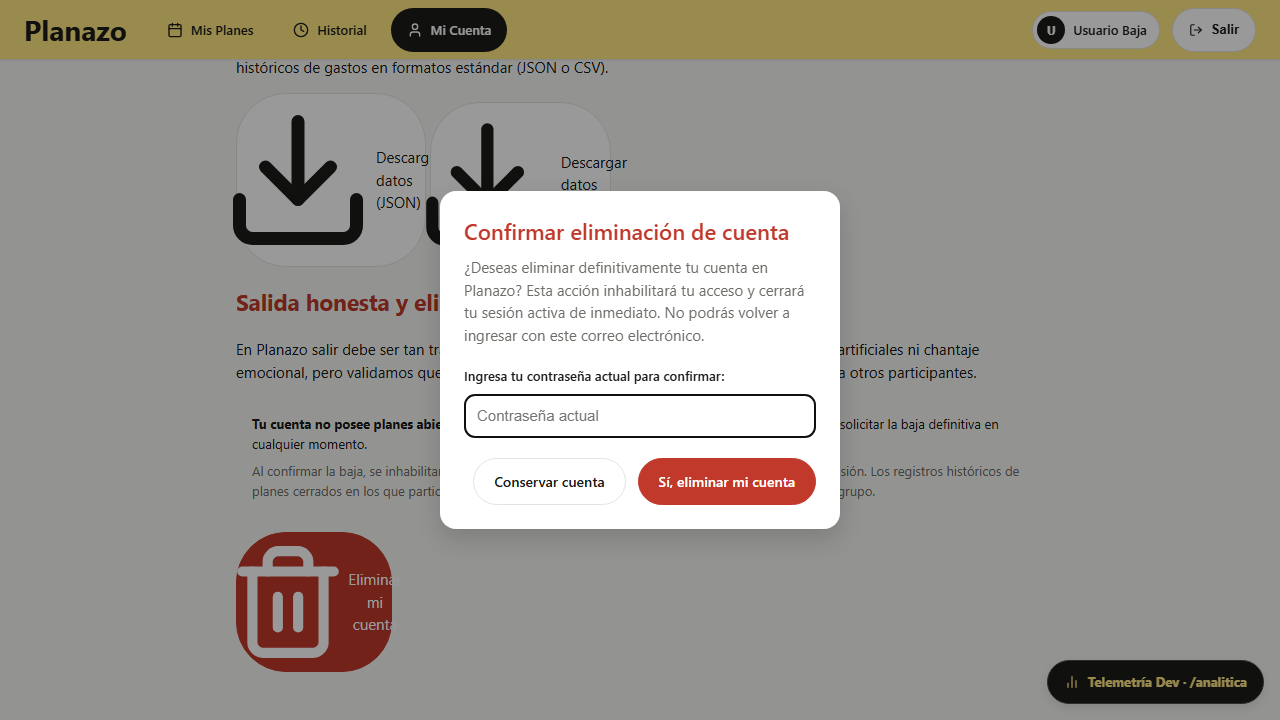
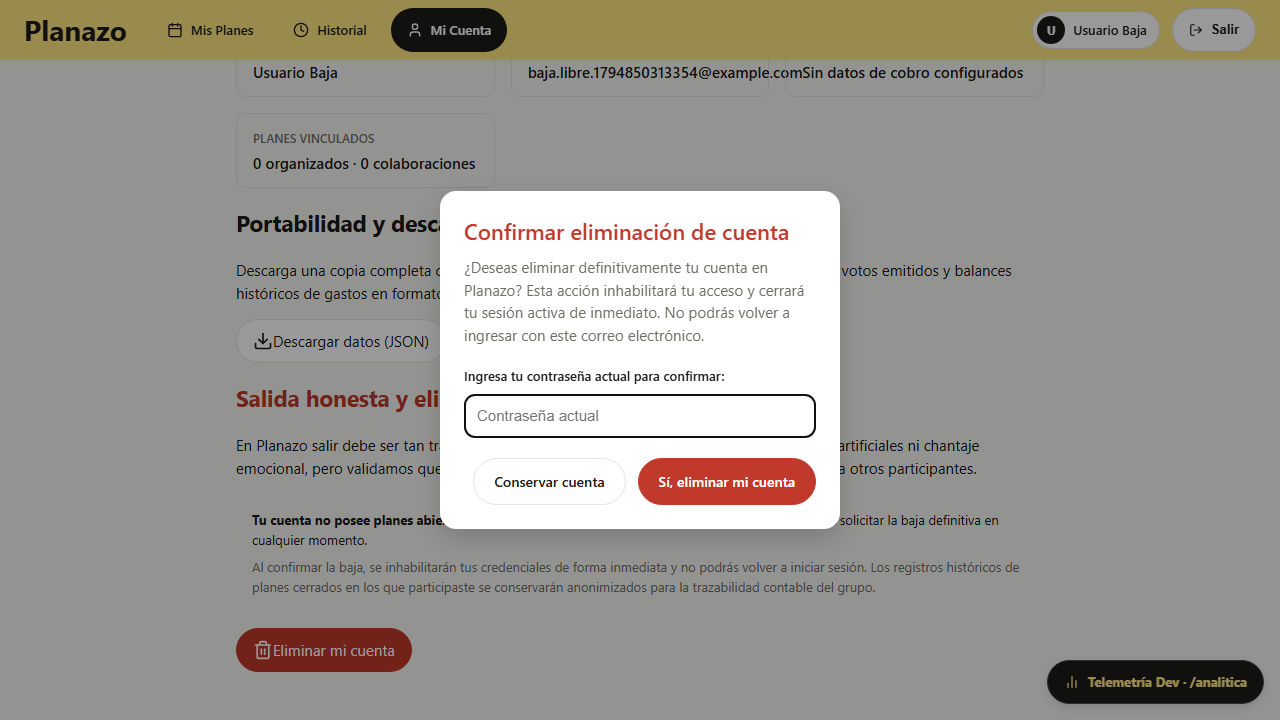
fix(ui): normalizar escalas de iconos vectoriales y remover enlace redundante en navbar (Refs #116)

diff --git a/resources/css/app.css b/resources/css/app.css
@@ -68,6 +68,32 @@ body {
     display: inline-block;
     vertical-align: middle;
     flex-shrink: 0;
+    width: var(--icono-md, 20px);
+    height: var(--icono-md, 20px);
+}
+
+.icono-sm {
+    width: var(--icono-sm, 16px);
+    height: var(--icono-sm, 16px);
+}
+
+.icono-md {
+    width: var(--icono-md, 20px);
+    height: var(--icono-md, 20px);
+}
+
+.icono-lg {
+    width: var(--icono-lg, 24px);
+    height: var(--icono-lg, 24px);
+}
+
+.boton .icono-svg,
+.boton-claro .icono-svg,
+.boton-rojo .icono-svg,
+.boton-editar .icono-svg,
+.boton-simetrico .icono-svg {
+    width: 18px;
+    height: 18px;
 }
 
 /* ═══════════════════════════════════════════════════════════════

diff --git a/resources/css/tokens.css b/resources/css/tokens.css
@@ -96,4 +96,9 @@
     --z-nav: 40;
     --z-floating: 50;
     --z-toast: 60;
+
+    /* ── I. Dimensiones de Íconos Vectoriales (DESIGN.md §3.B) ── */
+    --icono-sm: 16px;
+    --icono-md: 20px;
+    --icono-lg: 24px;
 }

diff --git a/resources/views/components/icono.blade.php b/resources/views/components/icono.blade.php
@@ -1,26 +1,38 @@
 @props([
     'nombre' => '',
     'clases' => '',
+    'tamano' => 'md',
 ])
 
 @php
     $normalizado = strtolower(trim((string) $nombre));
-    $clasesCss = trim('icono-svg ' . $clases . ' ' . $attributes->get('class', ''));
+    $mapaTamanos = [
+        'sm' => ['clase' => 'icono-sm', 'dim' => 16],
+        'md' => ['clase' => 'icono-md', 'dim' => 20],
+        'lg' => ['clase' => 'icono-lg', 'dim' => 24],
+    ];
+    $tamanoConfig = $mapaTamanos[$tamano] ?? $mapaTamanos['md'];
+    $dimension = $tamanoConfig['dim'];
+    $claseTamano = $tamanoConfig['clase'];
+
+    $clasesCss = trim('icono-svg ' . $claseTamano . ' ' . $clases . ' ' . $attributes->get('class', ''));
     $atributosExtra = $attributes->except('class');
 @endphp
 
 @switch($normalizado)
     @case('calendario')
-        <svg xmlns="http://www.w3.org/2000/svg" viewBox="0 0 24 24" fill="none" stroke="currentColor" stroke-width="2"
-            stroke-linecap="round" stroke-linejoin="round" aria-hidden="true" class="{{ $clasesCss }}" {{ $atributosExtra }}>
+        <svg xmlns="http://www.w3.org/2000/svg" width="{{ $dimension }}" height="{{ $dimension }}" viewBox="0 0 24 24"
+            fill="none" stroke="currentColor" stroke-width="2" stroke-linecap="round" stroke-linejoin="round" aria-hidden="true"
+            class="{{ $clasesCss }}" {{ $atributosExtra }}>
             <path d="M8 2v4M16 2v4M3 10h18" />
             <rect width="18" height="18" x="3" y="4" rx="2" />
         </svg>
     @break
 
     @case('ubicacion')
-        <svg xmlns="http://www.w3.org/2000/svg" viewBox="0 0 24 24" fill="none" stroke="currentColor" stroke-width="2"
-            stroke-linecap="round" stroke-linejoin="round" aria-hidden="true" class="{{ $clasesCss }}" {{ $atributosExtra }}>
+        <svg xmlns="http://www.w3.org/2000/svg" width="{{ $dimension }}" height="{{ $dimension }}" viewBox="0 0 24 24"
+            fill="none" stroke="currentColor" stroke-width="2" stroke-linecap="round" stroke-linejoin="round"
+            aria-hidden="true" class="{{ $clasesCss }}" {{ $atributosExtra }}>
             <path d="M20 10c0 6-8 12-8 12s-8-6-8-12a8 8 0 0 1 16 0Z" />
             <circle cx="12" cy="10" r="3" />
         </svg>
@@ -30,8 +42,9 @@
     @case('cancelado')
 
     @case('prohibido')
-        <svg xmlns="http://www.w3.org/2000/svg" viewBox="0 0 24 24" fill="none" stroke="currentColor" stroke-width="2"
-            stroke-linecap="round" stroke-linejoin="round" aria-hidden="true" class="{{ $clasesCss }}" {{ $atributosExtra }}>
+        <svg xmlns="http://www.w3.org/2000/svg" width="{{ $dimension }}" height="{{ $dimension }}" viewBox="0 0 24 24"
+            fill="none" stroke="currentColor" stroke-width="2" stroke-linecap="round" stroke-linejoin="round"
+            aria-hidden="true" class="{{ $clasesCss }}" {{ $atributosExtra }}>
             <circle cx="12" cy="12" r="10" />
             <path d="m4.9 4.9 14.2 14.2" />
         </svg>
@@ -39,24 +52,26 @@
 
     @case('check')
     @case('confirmado')
-        <svg xmlns="http://www.w3.org/2000/svg" viewBox="0 0 24 24" fill="none" stroke="currentColor" stroke-width="2"
-            stroke-linecap="round" stroke-linejoin="round" aria-hidden="true" class="{{ $clasesCss }}" {{ $atributosExtra }}>
+        <svg xmlns="http://www.w3.org/2000/svg" width="{{ $dimension }}" height="{{ $dimension }}" viewBox="0 0 24 24"
+            fill="none" stroke="currentColor" stroke-width="2" stroke-linecap="round" stroke-linejoin="round"
+            aria-hidden="true" class="{{ $clasesCss }}" {{ $atributosExtra }}>
             <path d="M20 6 9 17l-5-5" />
         </svg>
     @break
 
     @case('editar')
-        <svg xmlns="http://www.w3.org/2000/svg" viewBox="0 0 24 24" fill="none" stroke="currentColor" stroke-width="2"
-            stroke-linecap="round" stroke-linejoin="round" aria-hidden="true" class="{{ $clasesCss }}" {{ $atributosExtra }}>
+        <svg xmlns="http://www.w3.org/2000/svg" width="{{ $dimension }}" height="{{ $dimension }}" viewBox="0 0 24 24"
+            fill="none" stroke="currentColor" stroke-width="2" stroke-linecap="round" stroke-linejoin="round"
+            aria-hidden="true" class="{{ $clasesCss }}" {{ $atributosExtra }}>
             <path d="M17 3a2.85 2.83 0 1 1 4 4L7.5 20.5 2 22l1.5-5.5Z" />
             <path d="m15 5 4 4" />
         </svg>
     @break
 
     @case('eliminar')
-        <svg xmlns="http://www.w3.org/2000/svg" viewBox="0 0 24 24" fill="none" stroke="currentColor" stroke-width="2"
-            stroke-linecap="round" stroke-linejoin="round" aria-hidden="true" class="{{ $clasesCss }}"
-            {{ $atributosExtra }}>
+        <svg xmlns="http://www.w3.org/2000/svg" width="{{ $dimension }}" height="{{ $dimension }}" viewBox="0 0 24 24"
+            fill="none" stroke="currentColor" stroke-width="2" stroke-linecap="round" stroke-linejoin="round"
+            aria-hidden="true" class="{{ $clasesCss }}" {{ $atributosExtra }}>
             <path d="M3 6h18" />
             <path d="M19 6v14c0 1-1 2-2 2H7c-1 0-2-1-2-2V6" />
             <path d="M8 6V4c0-1 1-2 2-2h4c1 0 2 1 2 2v2" />
@@ -66,9 +81,9 @@
     @break
 
     @case('dinero')
-        <svg xmlns="http://www.w3.org/2000/svg" viewBox="0 0 24 24" fill="none" stroke="currentColor" stroke-width="2"
-            stroke-linecap="round" stroke-linejoin="round" aria-hidden="true" class="{{ $clasesCss }}"
-            {{ $atributosExtra }}>
+        <svg xmlns="http://www.w3.org/2000/svg" width="{{ $dimension }}" height="{{ $dimension }}" viewBox="0 0 24 24"
+            fill="none" stroke="currentColor" stroke-width="2" stroke-linecap="round" stroke-linejoin="round"
+            aria-hidden="true" class="{{ $clasesCss }}" {{ $atributosExtra }}>
             <circle cx="12" cy="12" r="10" />
             <path d="M16 8h-6a2 2 0 1 0 0 4h4a2 2 0 1 1 0 4H8" />
             <path d="M12 18V6" />
@@ -77,9 +92,9 @@
 
     @case('pago')
     @case('tarjeta')
-        <svg xmlns="http://www.w3.org/2000/svg" viewBox="0 0 24 24" fill="none" stroke="currentColor" stroke-width="2"
-            stroke-linecap="round" stroke-linejoin="round" aria-hidden="true" class="{{ $clasesCss }}"
-            {{ $atributosExtra }}>
+        <svg xmlns="http://www.w3.org/2000/svg" width="{{ $dimension }}" height="{{ $dimension }}" viewBox="0 0 24 24"
+            fill="none" stroke="currentColor" stroke-width="2" stroke-linecap="round" stroke-linejoin="round"
+            aria-hidden="true" class="{{ $clasesCss }}" {{ $atributosExtra }}>
             <rect width="20" height="14" x="2" y="5" rx="2" />
             <line x1="2" x2="22" y1="10" y2="10" />
         </svg>
@@ -87,9 +102,9 @@
 
     @case('balanza')
     @case('desempate')
-        <svg xmlns="http://www.w3.org/2000/svg" viewBox="0 0 24 24" fill="none" stroke="currentColor" stroke-width="2"
-            stroke-linecap="round" stroke-linejoin="round" aria-hidden="true" class="{{ $clasesCss }}"
-            {{ $atributosExtra }}>
+        <svg xmlns="http://www.w3.org/2000/svg" width="{{ $dimension }}" height="{{ $dimension }}"
+            viewBox="0 0 24 24" fill="none" stroke="currentColor" stroke-width="2" stroke-linecap="round"
+            stroke-linejoin="round" aria-hidden="true" class="{{ $clasesCss }}" {{ $atributosExtra }}>
             <path d="m16 16 3-8 3 8c-.87.65-1.92 1-3 1s-2.13-.35-3-1Z" />
             <path d="m2 16 3-8 3 8c-.87.65-1.92 1-3 1s-2.13-.35-3-1Z" />
             <path d="M7 21h10" />
@@ -100,9 +115,9 @@
 
     @case('historial')
     @case('reloj')
-        <svg xmlns="http://www.w3.org/2000/svg" viewBox="0 0 24 24" fill="none" stroke="currentColor" stroke-width="2"
-            stroke-linecap="round" stroke-linejoin="round" aria-hidden="true" class="{{ $clasesCss }}"
-            {{ $atributosExtra }}>
+        <svg xmlns="http://www.w3.org/2000/svg" width="{{ $dimension }}" height="{{ $dimension }}"
+            viewBox="0 0 24 24" fill="none" stroke="currentColor" stroke-width="2" stroke-linecap="round"
+            stroke-linejoin="round" aria-hidden="true" class="{{ $clasesCss }}" {{ $atributosExtra }}>
             <circle cx="12" cy="12" r="10" />
             <polyline points="12 6 12 12 16 14" />
         </svg>
@@ -112,9 +127,9 @@
     @case('estadistica')
 
     @case('grafico')
-        <svg xmlns="http://www.w3.org/2000/svg" viewBox="0 0 24 24" fill="none" stroke="currentColor" stroke-width="2"
-            stroke-linecap="round" stroke-linejoin="round" aria-hidden="true" class="{{ $clasesCss }}"
-            {{ $atributosExtra }}>
+        <svg xmlns="http://www.w3.org/2000/svg" width="{{ $dimension }}" height="{{ $dimension }}"
+            viewBox="0 0 24 24" fill="none" stroke="currentColor" stroke-width="2" stroke-linecap="round"
+            stroke-linejoin="round" aria-hidden="true" class="{{ $clasesCss }}" {{ $atributosExtra }}>
             <line x1="18" x2="18" y1="20" y2="10" />
             <line x1="12" x2="12" y1="20" y2="4" />
             <line x1="6" x2="6" y1="20" y2="14" />
@@ -123,9 +138,9 @@
 
     @case('salir')
     @case('logout')
-        <svg xmlns="http://www.w3.org/2000/svg" viewBox="0 0 24 24" fill="none" stroke="currentColor" stroke-width="2"
-            stroke-linecap="round" stroke-linejoin="round" aria-hidden="true" class="{{ $clasesCss }}"
-            {{ $atributosExtra }}>
+        <svg xmlns="http://www.w3.org/2000/svg" width="{{ $dimension }}" height="{{ $dimension }}"
+            viewBox="0 0 24 24" fill="none" stroke="currentColor" stroke-width="2" stroke-linecap="round"
+            stroke-linejoin="round" aria-hidden="true" class="{{ $clasesCss }}" {{ $atributosExtra }}>
             <path d="M9 21H5a2 2 0 0 1-2-2V5a2 2 0 0 1 2-2h4" />
             <polyline points="16 17 21 12 16 7" />
             <line x1="21" x2="9" y1="12" y2="12" />
@@ -134,18 +149,18 @@
 
     @case('spinner')
     @case('cargando')
-        <svg xmlns="http://www.w3.org/2000/svg" viewBox="0 0 24 24" fill="none" stroke="currentColor" stroke-width="2.5"
-            stroke-linecap="round" stroke-linejoin="round" aria-hidden="true" class="icono-spinner {{ $clasesCss }}"
-            {{ $atributosExtra }}>
+        <svg xmlns="http://www.w3.org/2000/svg" width="{{ $dimension }}" height="{{ $dimension }}"
+            viewBox="0 0 24 24" fill="none" stroke="currentColor" stroke-width="2.5" stroke-linecap="round"
+            stroke-linejoin="round" aria-hidden="true" class="icono-spinner {{ $clasesCss }}" {{ $atributosExtra }}>
             <path d="M21 12a9 9 0 1 1-6.219-8.56" />
         </svg>
     @break
 
     @case('descarga')
     @case('download')
-        <svg xmlns="http://www.w3.org/2000/svg" viewBox="0 0 24 24" fill="none" stroke="currentColor" stroke-width="2"
-            stroke-linecap="round" stroke-linejoin="round" aria-hidden="true" class="{{ $clasesCss }}"
-            {{ $atributosExtra }}>
+        <svg xmlns="http://www.w3.org/2000/svg" width="{{ $dimension }}" height="{{ $dimension }}"
+            viewBox="0 0 24 24" fill="none" stroke="currentColor" stroke-width="2" stroke-linecap="round"
+            stroke-linejoin="round" aria-hidden="true" class="{{ $clasesCss }}" {{ $atributosExtra }}>
             <path d="M21 15v4a2 2 0 0 1-2 2H5a2 2 0 0 1-2-2v-4" />
             <polyline points="7 10 12 15 17 10" />
             <line x1="12" x2="12" y1="15" y2="3" />
@@ -156,9 +171,9 @@
     @case('cuenta')
 
     @case('perfil')
-        <svg xmlns="http://www.w3.org/2000/svg" viewBox="0 0 24 24" fill="none" stroke="currentColor" stroke-width="2"
-            stroke-linecap="round" stroke-linejoin="round" aria-hidden="true" class="{{ $clasesCss }}"
-            {{ $atributosExtra }}>
+        <svg xmlns="http://www.w3.org/2000/svg" width="{{ $dimension }}" height="{{ $dimension }}"
+            viewBox="0 0 24 24" fill="none" stroke="currentColor" stroke-width="2" stroke-linecap="round"
+            stroke-linejoin="round" aria-hidden="true" class="{{ $clasesCss }}" {{ $atributosExtra }}>
             <path d="M19 21v-2a4 4 0 0 0-4-4H9a4 4 0 0 0-4 4v2" />
             <circle cx="12" cy="7" r="4" />
         </svg>
@@ -168,9 +183,9 @@
     @case('advertencia')
 
     @case('peligro')
-        <svg xmlns="http://www.w3.org/2000/svg" viewBox="0 0 24 24" fill="none" stroke="currentColor" stroke-width="2"
-            stroke-linecap="round" stroke-linejoin="round" aria-hidden="true" class="{{ $clasesCss }}"
-            {{ $atributosExtra }}>
+        <svg xmlns="http://www.w3.org/2000/svg" width="{{ $dimension }}" height="{{ $dimension }}"
+            viewBox="0 0 24 24" fill="none" stroke="currentColor" stroke-width="2" stroke-linecap="round"
+            stroke-linejoin="round" aria-hidden="true" class="{{ $clasesCss }}" {{ $atributosExtra }}>
             <path d="m21.73 18-8-14a2 2 0 0 0-3.48 0l-8 14A2 2 0 0 0 4 21h16a2 2 0 0 0 1.73-3Z" />
             <line x1="12" x2="12" y1="9" y2="13" />
             <line x1="12" x2="12.01" y1="17" y2="17" />
@@ -179,9 +194,9 @@
 
     @case('x')
     @case('cerrar')
-        <svg xmlns="http://www.w3.org/2000/svg" viewBox="0 0 24 24" fill="none" stroke="currentColor" stroke-width="2"
-            stroke-linecap="round" stroke-linejoin="round" aria-hidden="true" class="{{ $clasesCss }}"
-            {{ $atributosExtra }}>
+        <svg xmlns="http://www.w3.org/2000/svg" width="{{ $dimension }}" height="{{ $dimension }}"
+            viewBox="0 0 24 24" fill="none" stroke="currentColor" stroke-width="2" stroke-linecap="round"
+            stroke-linejoin="round" aria-hidden="true" class="{{ $clasesCss }}" {{ $atributosExtra }}>
             <path d="M18 6 6 18M6 6l12 12" />
         </svg>
     @break

diff --git a/tests/Feature/ComponenteIconoTest.php b/tests/Feature/ComponenteIconoTest.php
@@ -28,6 +28,8 @@ class ComponenteIconoTest extends TestCase
 
             $this->assertStringContainsString('<svg', $rendered, "Fallo al renderizar el icono {$nombre}");
             $this->assertStringContainsString('viewBox="0 0 24 24"', $rendered);
+            $this->assertStringContainsString('width="20"', $rendered);
+            $this->assertStringContainsString('height="20"', $rendered);
             $this->assertStringContainsString('aria-hidden="true"', $rendered);
             $this->assertStringContainsString('stroke="currentColor"', $rendered);
             $this->assertStringContainsString('fill="none"', $rendered);
@@ -59,18 +61,23 @@ class ComponenteIconoTest extends TestCase
     }
 
     /**
-     * Verifies that additional icons for system workflows (balance, card) are supported.
+     * Verifies that the icon component supports compact (16px), standard (20px), and prominent (24px) size variants.
      */
-    public function test_soporta_iconos_adicionales_del_sistema(): void
+    public function test_soporta_variantes_de_tamano_compacto_estandar_y_destacado(): void
     {
-        $adicionales = ['balanza', 'tarjeta'];
+        $renderedSm = (string) Blade::render('<x-icono nombre="calendario" tamano="sm" />');
+        $this->assertStringContainsString('width="16"', $renderedSm);
+        $this->assertStringContainsString('height="16"', $renderedSm);
+        $this->assertStringContainsString('icono-sm', $renderedSm);
 
-        foreach ($adicionales as $nombre) {
-            $rendered = (string) Blade::render("<x-icono nombre=\"{$nombre}\" />");
+        $renderedMd = (string) Blade::render('<x-icono nombre="calendario" tamano="md" />');
+        $this->assertStringContainsString('width="20"', $renderedMd);
+        $this->assertStringContainsString('height="20"', $renderedMd);
+        $this->assertStringContainsString('icono-md', $renderedMd);
 
-            $this->assertStringContainsString('<svg', $rendered, "Fallo al renderizar el icono adicional {$nombre}");
-            $this->assertStringContainsString('viewBox="0 0 24 24"', $rendered);
-            $this->assertStringContainsString('aria-hidden="true"', $rendered);
-        }
+        $renderedLg = (string) Blade::render('<x-icono nombre="calendario" tamano="lg" />');
+        $this->assertStringContainsString('width="24"', $renderedLg);
+        $this->assertStringContainsString('height="24"', $renderedLg);
+        $this->assertStringContainsString('icono-lg', $renderedLg);
     }
 }

diff --git a/resources/views/layouts/_partials/nav.blade.php b/resources/views/layouts/_partials/nav.blade.php
@@ -21,13 +21,12 @@
     </div>
 
     <div class="barra-derecha">
-        <a href="{{ route('perfil.datos') }}" class="nav-usuario" style="text-decoration: none;"
-            title="Mi Cuenta y Privacidad ({{ auth()->user()->name }})" aria-label="Mi Cuenta y Privacidad">
+        <div class="nav-usuario" title="Usuario autenticado: {{ auth()->user()->name }}">
             <span class="nav-usuario-avatar" aria-hidden="true">
                 {{ strtoupper(substr(auth()->user()->name, 0, 1)) }}
             </span>
             <span class="nav-usuario-nombre">{{ auth()->user()->name }}</span>
-        </a>
+        </div>
 
         {{-- Botón accesible para cerrar sesión --}}
         <form method="POST" action="{{ route('salir') }}" style="margin: 0;">

diff --git a/resources/views/planes/_cabecera.blade.php b/resources/views/planes/_cabecera.blade.php
@@ -70,8 +70,9 @@
                 <div
                     style="font-weight: var(--font-weight-bold); color: var(--color-foreground); font-size: var(--font-size-md);">
                     Plan cancelado</div>
-                <div style="font-size: var(--font-size-sm);">Este plan ha sido cancelado. La sala se encuentra en modo
-                    de solo lectura (no se permiten ediciones, invitaciones, nuevas propuestas ni votos).</div>
+                <div style="font-size: var(--font-size-sm);">Este plan ha sido cancelado. La sala se encuentra en
+                    <span>modo de solo lectura</span> (no se permiten ediciones, invitaciones, nuevas propuestas ni
+                    votos).</div>
             </div>
         </div>
     @endif

diff --git a/resources/DESIGN.md b/resources/DESIGN.md
@@ -127,6 +127,18 @@ Escala de espaciado consistente para padding, gap y margin:
 | `--radius-circle` | `50%`  | Avatares y puntos indicadores                               |
 | `--touch-min`     | `44px` | Área táctil mínima Fitts (todos los controles interactivos) |
 
+### F. Dimensiones de Íconos Vectoriales
+
+Tokens declarados en `@theme static` de `tokens.css` para normalizar las escalas SVG:
+
+| Token        | Valor  | Clase Asociada | Prop Componente | Contexto de Uso                                               |
+| :----------- | :----- | :------------- | :-------------- | :------------------------------------------------------------ |
+| `--icono-sm` | `16px` | `.icono-sm`    | `tamano="sm"`   | Íconos en navegación (`.nav-item-icono`), badges y microcopia |
+| `--icono-md` | `20px` | `.icono-md`    | `tamano="md"`   | Tamaño estándar por defecto (`.icono-svg`), títulos y alertas |
+| `--icono-lg` | `24px` | `.icono-lg`    | `tamano="lg"`   | Íconos destacados, banners de estado y cabeceras de sala      |
+
+> En botones (`.boton`, `.boton-claro`, `.boton-rojo`, `.boton-simetrico`), los íconos se escalan automáticamente a `18px` para guardar balance con la tipografía.
+
 ### G. Elevación y Capas
 
 | Token                                    | Valor                           | Uso                      |
@@ -176,7 +188,9 @@ Escala de espaciado consistente para padding, gap y margin:
 ### B. Componente de Íconos Vectoriales (`<x-icono nombre="..." />`)
 
 - Prohibido el uso de emojis crudos en vistas. Usar trazados Heroicons/Lucide con `stroke="currentColor"`.
-- Tamaños: Compacto `16×16px`, Estándar `20×20px`, Destacado `24×24px`.
+- Tamaños normados: Compacto `16×16px` (`tamano="sm"` / `.icono-sm`), Estándar `20×20px` (`tamano="md"` / `.icono-md` / por defecto), Destacado `24×24px` (`tamano="lg"` / `.icono-lg`).
+- Proporción en botones: Todos los botones (`.boton`, `.boton-claro`, `.boton-rojo`, `.boton-simetrico`) acoplan sus íconos a `18×18px` de forma automática.
+- En SVG nativo, el componente `<x-icono>` emite atributos intrínsecos `width` y `height` acordes a la escala para garantizar contención geométrica estricta frente a flexbox y prevenir desbordes.
 - Accesibilidad: Siempre con texto visible o `aria-label` descriptivo.
 
 ---
